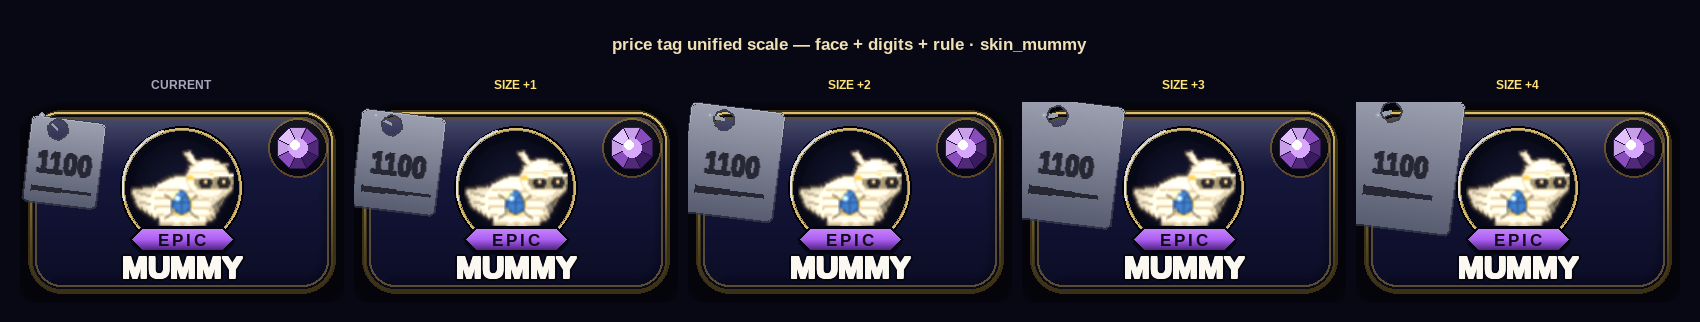
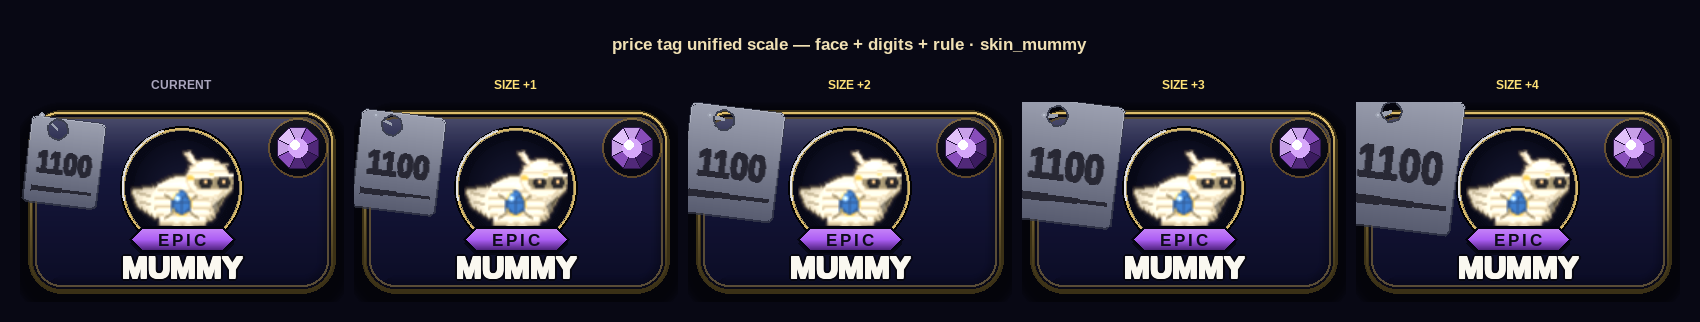
Fix price chip options: scale max font size with tag width so digits grow
Font ceiling scales from 15 (76px tag) up to 23 (116px tag), making the
numeral visibly larger at each step rather than capped at the same size.

Claude-Session: https://claude.ai/code/session_01DaGYw11VdAubog2VGiiucC

diff --git a/tools/_store_price_tag_unified.py b/tools/_store_price_tag_unified.py
@@ -22,13 +22,14 @@ SID = "skin_mummy"
 CARD_W, CARD_H = sc.CARD_W, sc.CARD_H
 PANEL_W, PANEL_H = CARD_W * sc.SS, CARD_H * sc.SS   # 324×200
 
-# ── steps: (label, tw, th, gx, gy, max_glyph_w, peak_h, min_h) ──────────────
+# ── steps: (label, tw, th, gx, gy, max_fs, max_glyph_w, peak_h, min_h) ──────
+# max_fs scales with tag width so digits actually grow at each step
 STEPS = [
-    ("CURRENT",  76,  88, 28, 12, 66,  6, 2),
-    ("SIZE +1",  86, 100, 32, 14, 75,  7, 2),
-    ("SIZE +2",  96, 112, 35, 15, 83,  8, 3),
-    ("SIZE +3", 106, 124, 39, 17, 92,  9, 3),
-    ("SIZE +4", 116, 136, 43, 19, 101, 10, 4),
+    ("CURRENT",  76,  88, 28, 12, 15, 66,   6, 2),
+    ("SIZE +1",  86, 100, 32, 14, 17, 75,   7, 2),
+    ("SIZE +2",  96, 112, 35, 15, 19, 83,   8, 3),
+    ("SIZE +3", 106, 124, 39, 17, 21, 92,   9, 3),
+    ("SIZE +4", 116, 136, 43, 19, 23, 101, 10, 4),
 ]
 
 _ORIG_TAG_W     = sc._TAG_W
@@ -38,9 +39,9 @@ _orig_draw      = sc._tag_draw_price
 _orig_price     = sc.price_chip
 
 
-def make_glyph(max_w):
+def make_glyph(max_fs, max_w):
     def _fn(text):
-        for fs in (15, 14, 13, 12, 11, 10, 9, 8):
+        for fs in range(max_fs, 7, -1):
             raw = sc._stamp_bold(sc._glyph_base(text, sc.font(fs), 0), sc.m(1.0))
             crushed = pygame.transform.smoothscale(
                 raw, (max(1, int(raw.get_width() * 0.86)), raw.get_height()))
@@ -119,10 +120,10 @@ def make_price_chip(tw, th, gx, gy):
     return _chip
 
 
-def render_panel(tw, th, gx, gy, max_w, peak_h, min_h):
+def render_panel(tw, th, gx, gy, max_fs, max_w, peak_h, min_h):
     sc._TAG_W           = tw
     sc._TAG_H           = th
-    sc._tag_price_glyph = make_glyph(max_w)
+    sc._tag_price_glyph = make_glyph(max_fs, max_w)
     sc._tag_draw_price  = make_draw_price(peak_h, min_h)
     sc.price_chip       = make_price_chip(tw, th, gx, gy)
     sc._card_cache.clear()
@@ -141,8 +142,8 @@ def render_panel(tw, th, gx, gy, max_w, peak_h, min_h):
     return big
 
 
-panels = [(lbl, render_panel(tw, th, gx, gy, mw, ph, mh))
-          for lbl, tw, th, gx, gy, mw, ph, mh in STEPS]
+panels = [(lbl, render_panel(tw, th, gx, gy, mfs, mw, ph, mh))
+          for lbl, tw, th, gx, gy, mfs, mw, ph, mh in STEPS]
 
 # ── layout: single row ────────────────────────────────────────────────────────
 BG    = (8, 8, 20)
